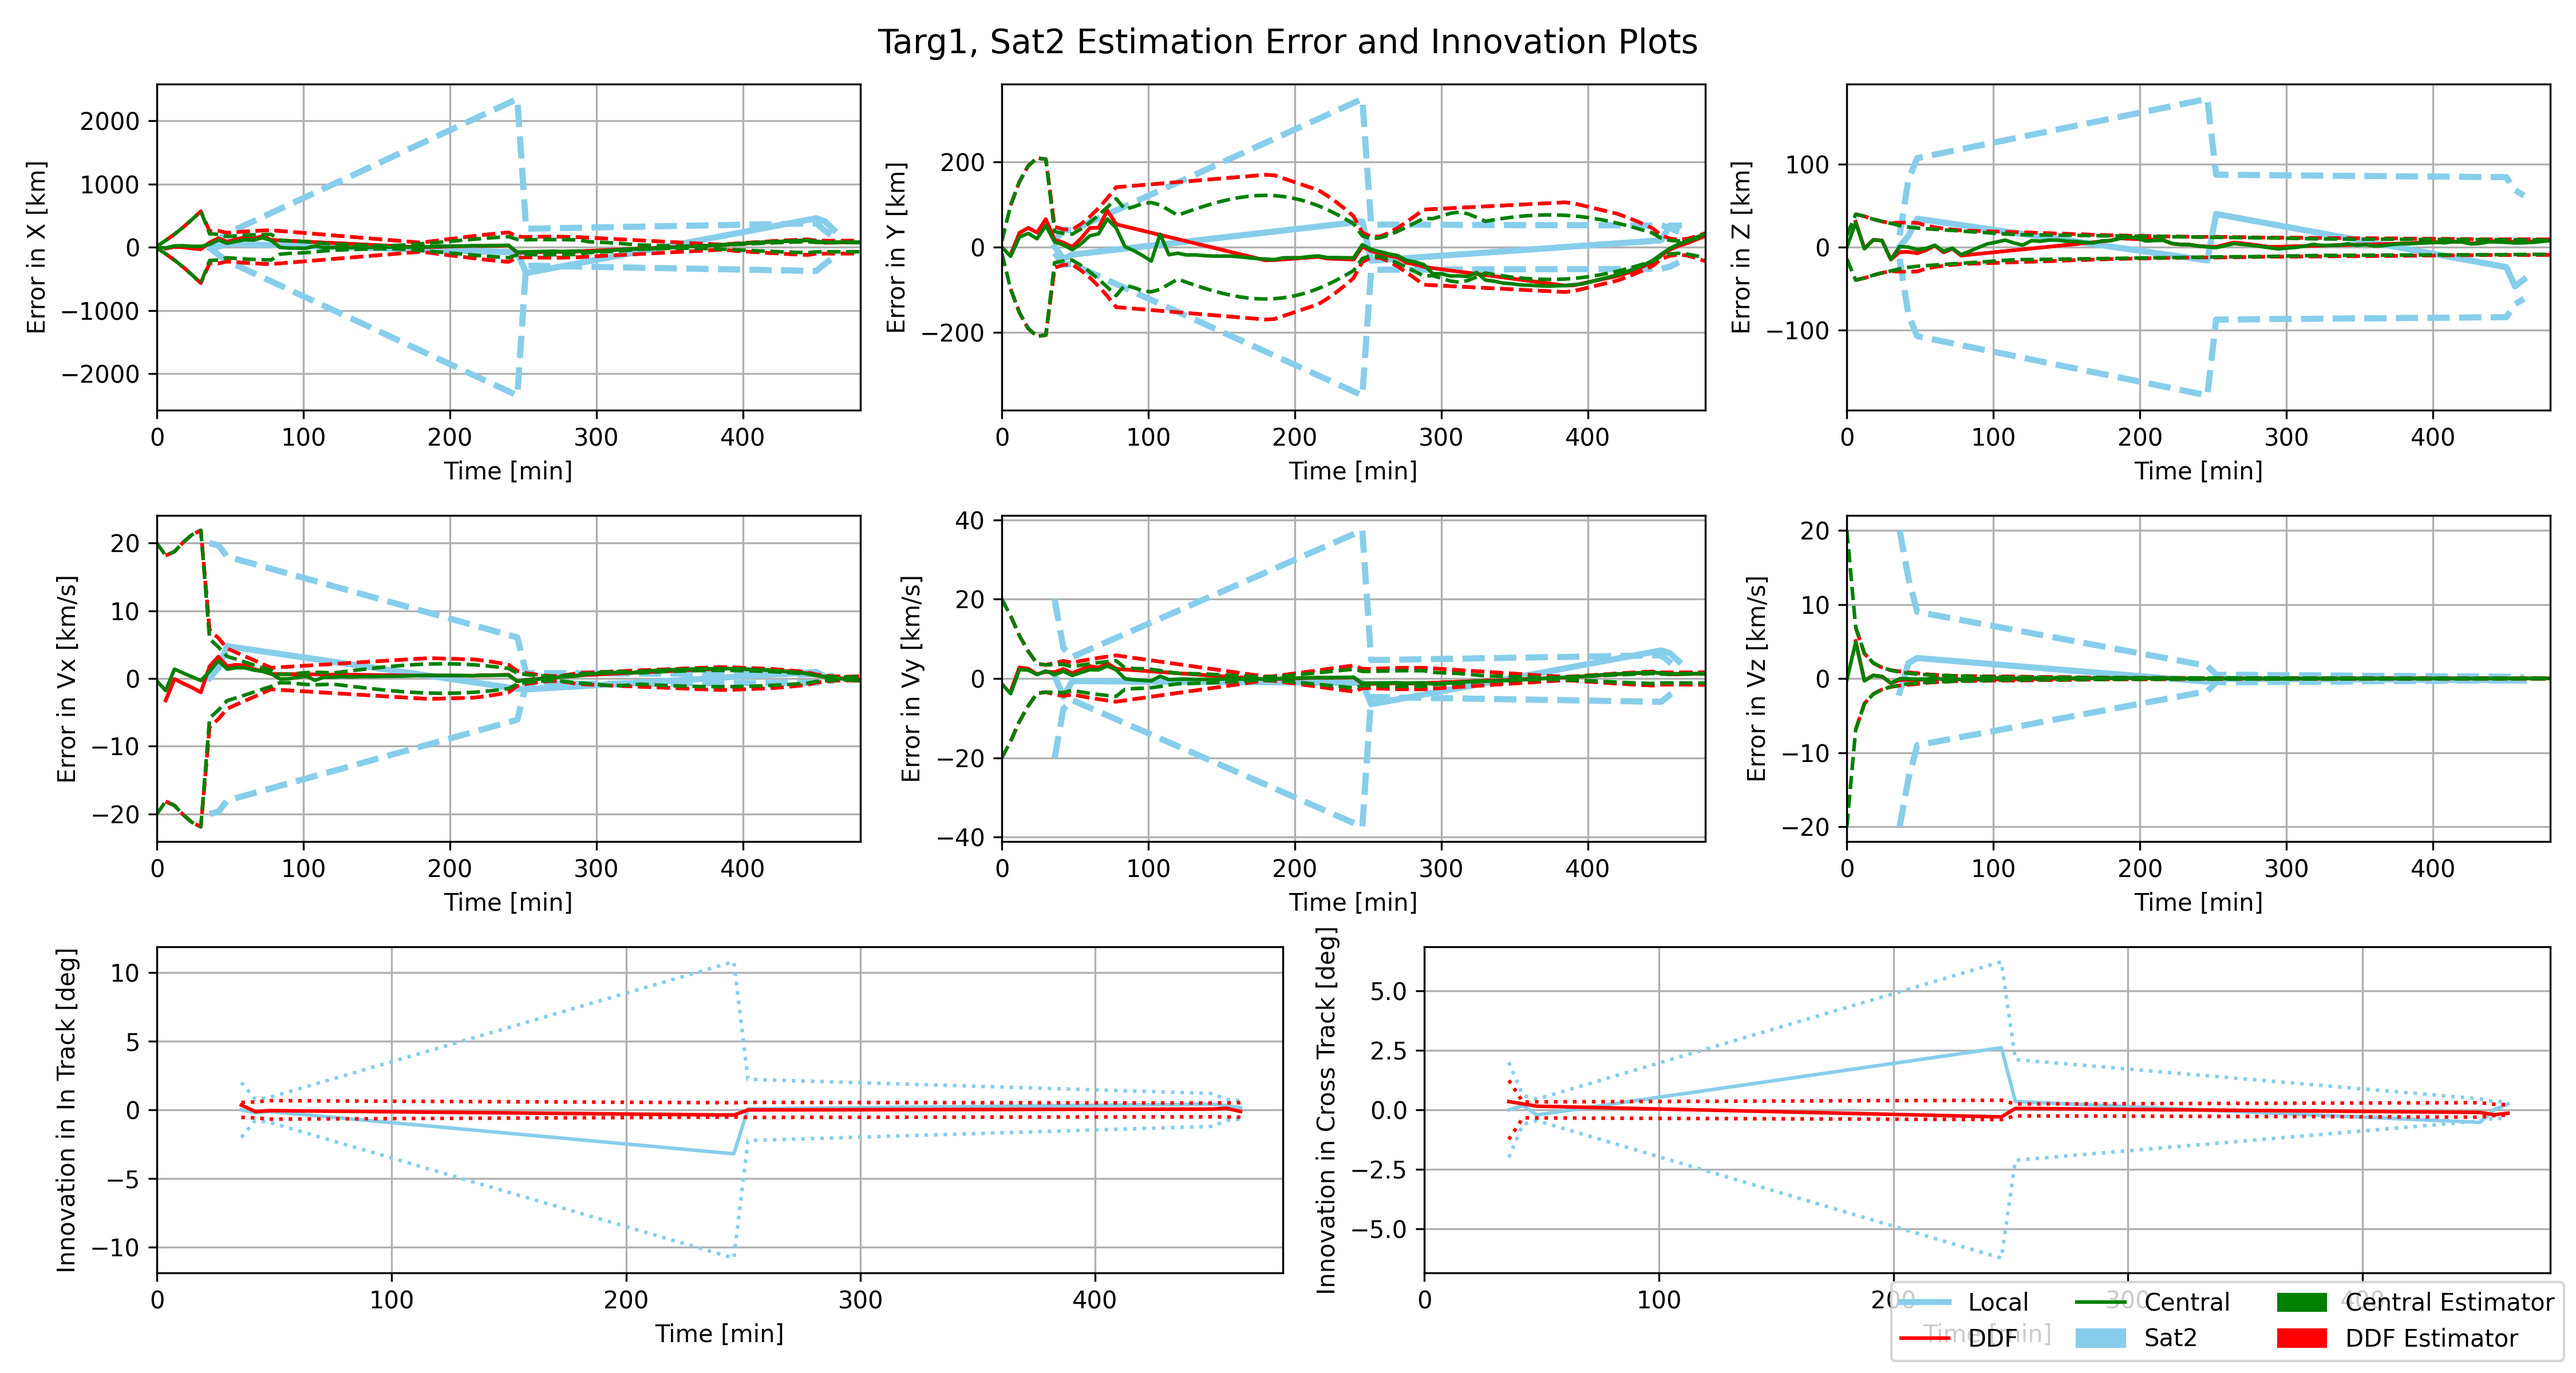
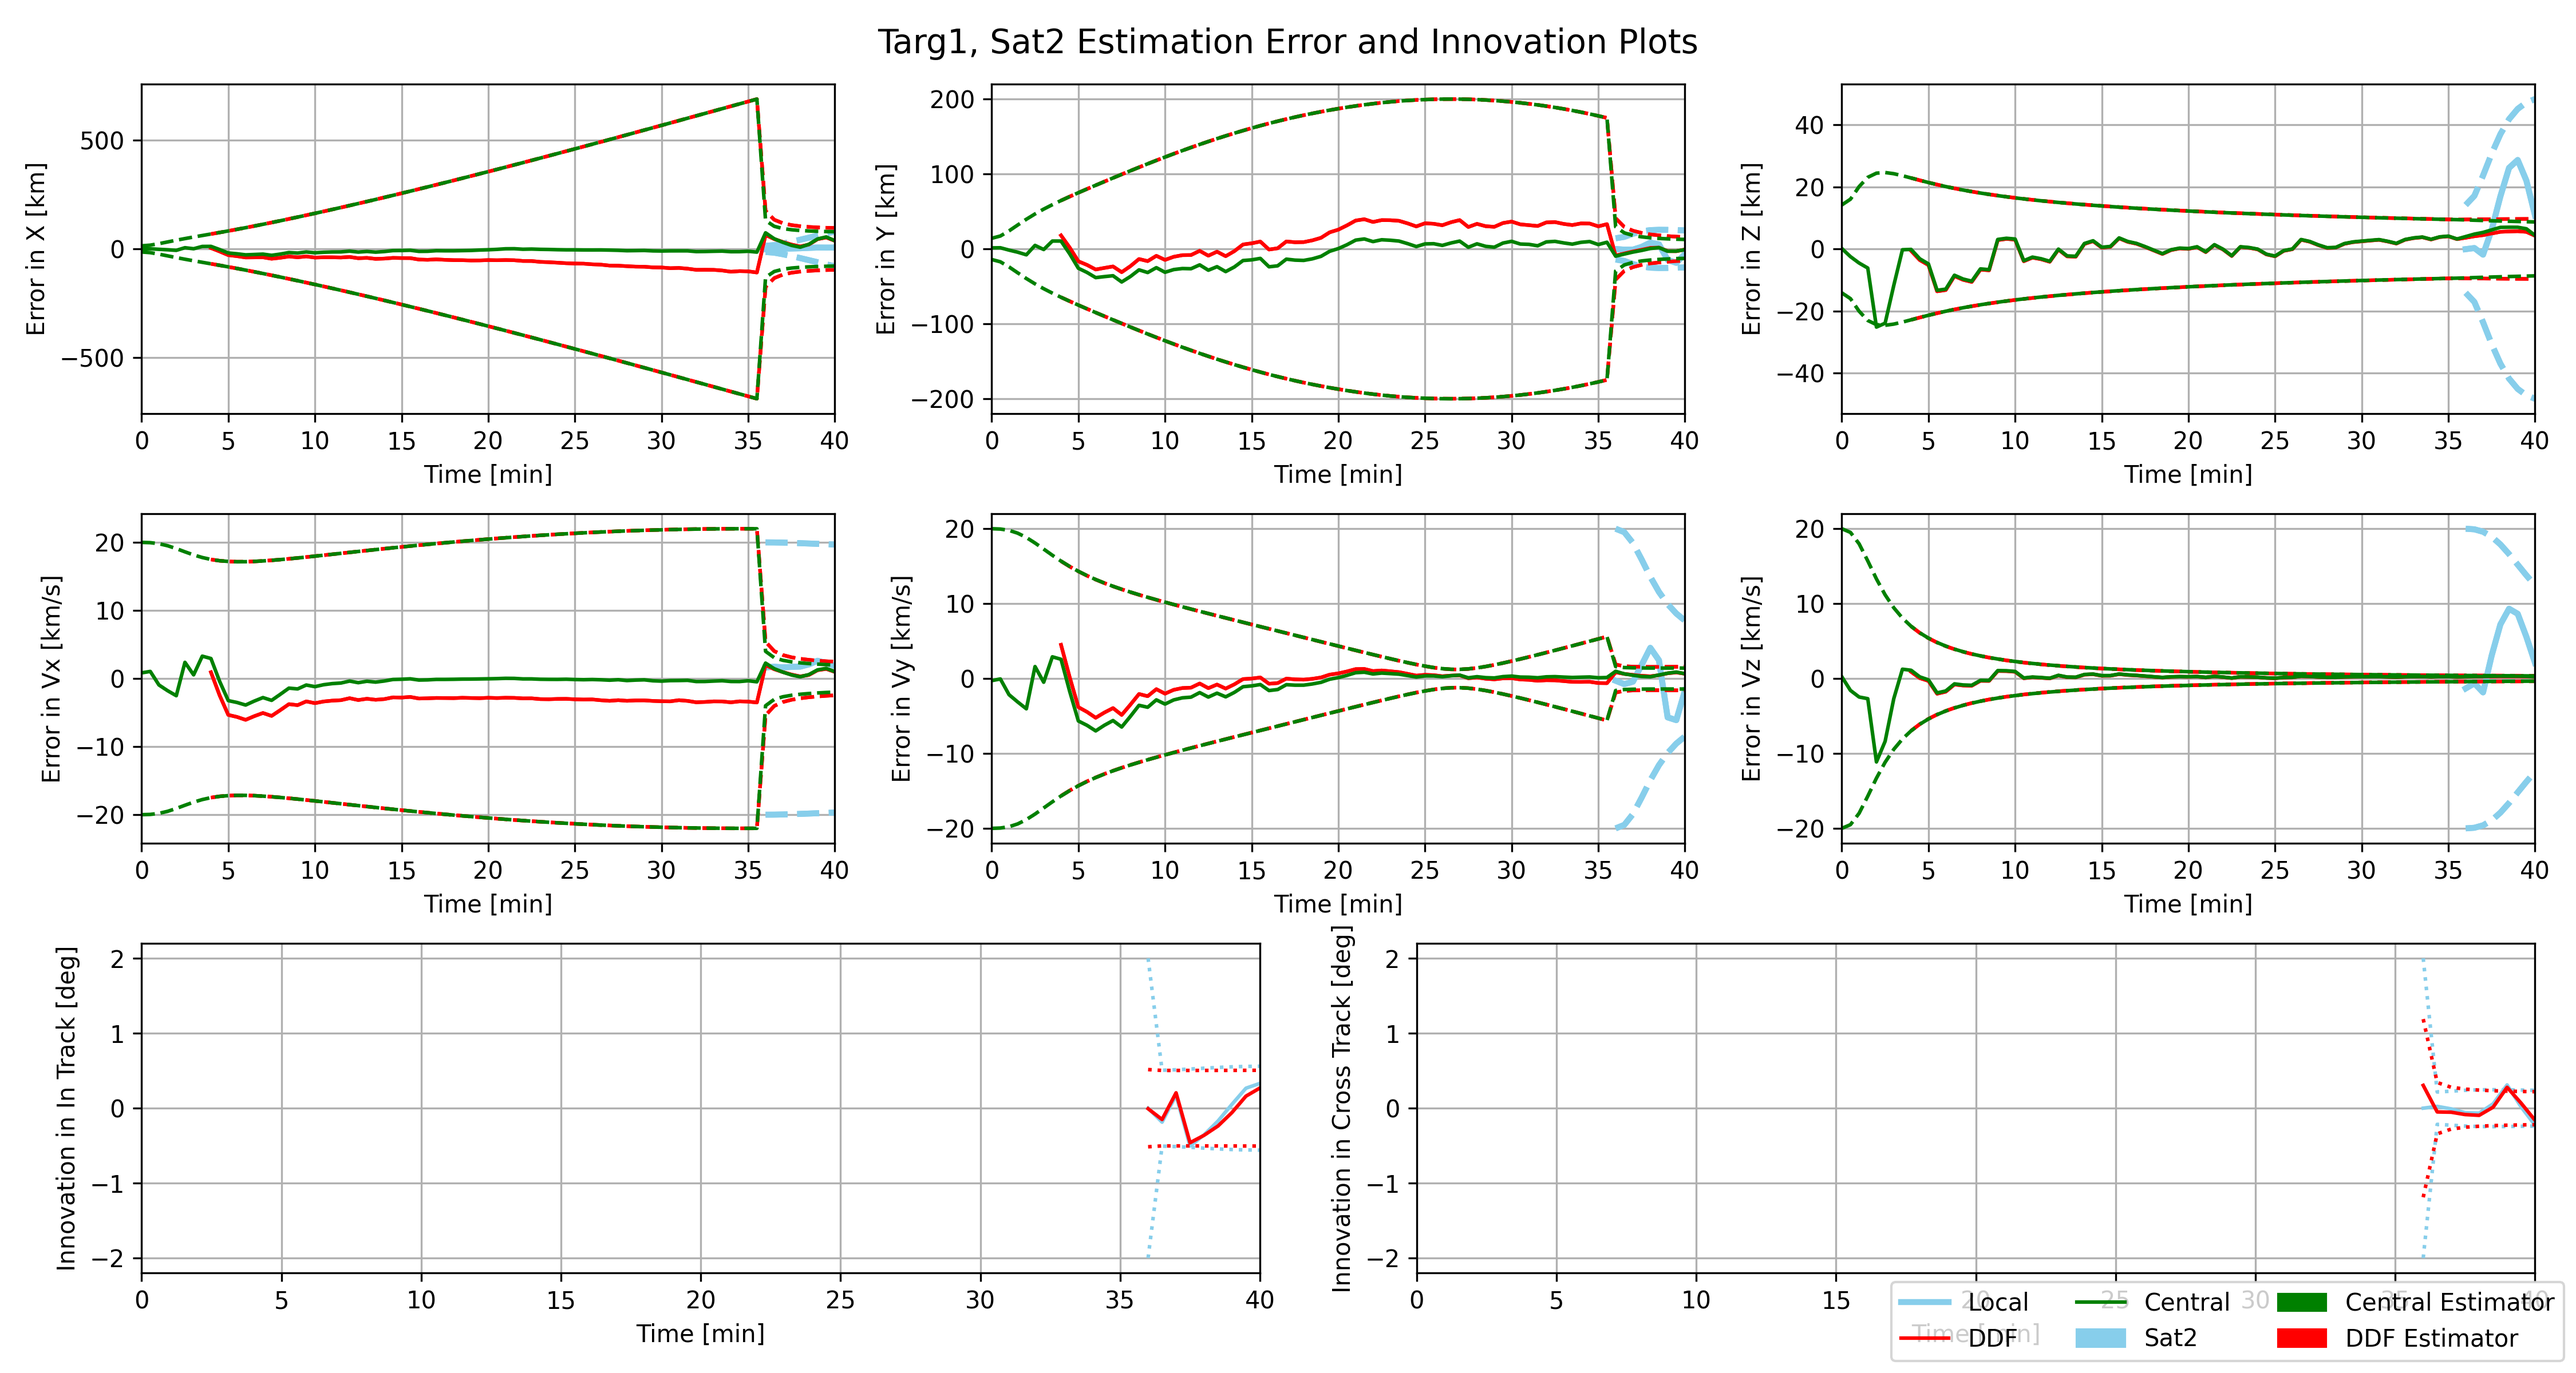
update with plots

diff --git a/phase1/environmentClass.py b/phase1/environmentClass.py
@@ -277,6 +277,24 @@ class environment:
                     for i in range(2):  # Note: only 2 plots in the third row
                         axes[6 + i].set_xlabel("Time [min]")
                         axes[6 + i].set_ylabel(f"Innovation in {meas_labels[i]}")
+
+            # FIRST, PLOT CENTRAL   
+                    # USE COLOR GREEN FOR CENTRAL ESTIMATOR
+                    if self.centralEstimator:
+                        if targ.targetID in self.centralEstimator.estHist:
+                            trueHistCent = targ.hist
+                            estHistCent = self.centralEstimator.estHist[targ.targetID]
+                            covHistCent = self.centralEstimator.covarianceHist[targ.targetID]
+                            innovationHistCent = self.centralEstimator.innovationHist[targ.targetID]
+                            innovationCovHistCent = self.centralEstimator.innovationCovHist[targ.targetID]
+                            timesCent = [time for time in time_vec.value if time in estHistCent]
+                        # ERROR PLOTS
+                        for i in range(6):
+                            axes[i].plot(timesCent, [estHistCent[time][i] - trueHistCent[time][i] for time in timesCent], color='green', label='Central')
+                            axes[i].plot(timesCent, [2 * np.sqrt(covHistCent[time][i][i]) for time in timesCent], color='green', linestyle='dashed')#, label='2 Sigma Bounds')
+                            axes[i].plot(timesCent, [-2 * np.sqrt(covHistCent[time][i][i]) for time in timesCent], color='green', linestyle='dashed')
+                    
+
             # FOR EACH SATELLITE, EXTRACT ALL DATA for independent estimator and ddf estimator
                     satColor = sat.color
                     trueHist = targ.hist
@@ -338,22 +356,7 @@ class environment:
                             axes[6 + i].plot(ddf_innovation_times, [2 * np.sqrt(ddf_innovationCovHist[time][i][i]) for time in ddf_innovation_times], color='r', linestyle='dotted')#, label='DDF 2 Sigma Bounds')
                             axes[6 + i].plot(ddf_innovation_times, [-2 * np.sqrt(ddf_innovationCovHist[time][i][i]) for time in ddf_innovation_times], color='r', linestyle='dotted')
                     
-                    # IF CENTRAL ESTIMATOR FLAG IS SET, ALSO PLOT THAT:
-                    # USE COLOR PINK FOR CENTRAL ESTIMATOR
-                    if self.centralEstimator:
-                        if targ.targetID in self.centralEstimator.estHist:
-                            trueHist = targ.hist
-                            estHist = self.centralEstimator.estHist[targ.targetID]
-                            covHist = self.centralEstimator.covarianceHist[targ.targetID]
-                            innovationHist = self.centralEstimator.innovationHist[targ.targetID]
-                            innovationCovHist = self.centralEstimator.innovationCovHist[targ.targetID]
-                            times = [time for time in time_vec.value if time in estHist]
-                        # ERROR PLOTS
-                        for i in range(6):
-                            axes[i].plot(times, [estHist[time][i] - trueHist[time][i] for time in times], color='green', label='Central')
-                            axes[i].plot(times, [2 * np.sqrt(covHist[time][i][i]) for time in times], color='green', linestyle='dashed')#, label='2 Sigma Bounds')
-                            axes[i].plot(times, [-2 * np.sqrt(covHist[time][i][i]) for time in times], color='green', linestyle='dashed')
-                    
+                   
                     # COLLECT LEGENDS REMOVING DUPLICATES
                     handles, labels = [], []
                     for ax in axes:

diff --git a/phase1/main.py b/phase1/main.py
@@ -178,23 +178,27 @@ def plot_NEES_NIS(simData):
 
 if __name__ == "__main__":
     # Vector of time for simulation:
-    time_vec = np.linspace(0, 240*2, 40*2 + 1) * u.minute
+    time_vec = np.linspace(0, 40, 40*2 + 1) * u.minute
     
-    env = create_environment()
-    env.simulate(time_vec, savePlot = True, saveName = "PDR_DDF", showSim = True)
+    # env = create_environment()
+    # env.simulate(time_vec, savePlot = True, saveName = "PDR_DDF", showSim = True)
         
     # Plot the NEES and NIS results:
     # plot_NEES_NIS(simData)
 
     # Number of simulations:
-    # numSims = 1
-    # simData = defaultdict(dict)
-    # for i in range(numSims):
-    #     print(f'Simulation {i + 1} out of {numSims}')
-    #     # Create a new environment instance for each simulation run:
-    #     env = create_environment()
-    #     # Simulate the satellites through the vector of time:
-    #     simData[i] = env.simulate(time_vec, savePlot = True, saveName = "CI", showSim = False)
+    numSims = 1
+    simData = defaultdict(dict)
+    for i in range(numSims):
+        print(f'Simulation {i + 1} out of {numSims}')
+        # Create a new environment instance for each simulation run:
+        env = create_environment()
+        # Simulate the satellites through the vector of time:
+        simData[i] = env.simulate(time_vec, savePlot = True, saveName = "CI", showSim = False)
+
+    # Plot the NEES and NIS results:
+    plot_NEES_NIS(simData)
+
 
     # Save the gif:
     env.render_gif(fileName = 'satellite_simulation.gif', fps = 2)
